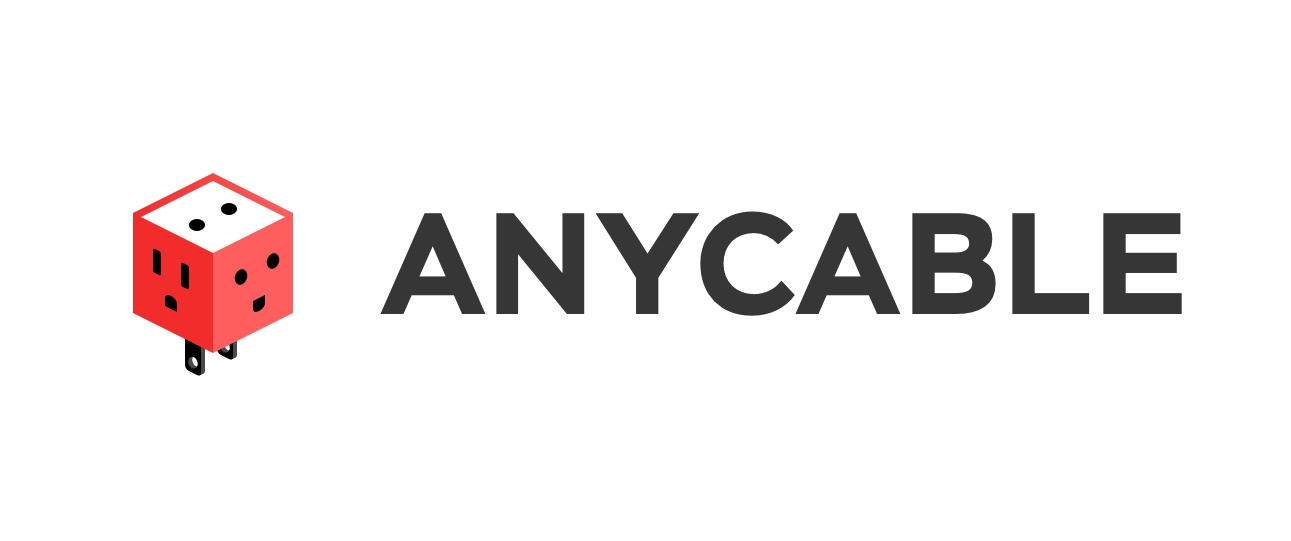
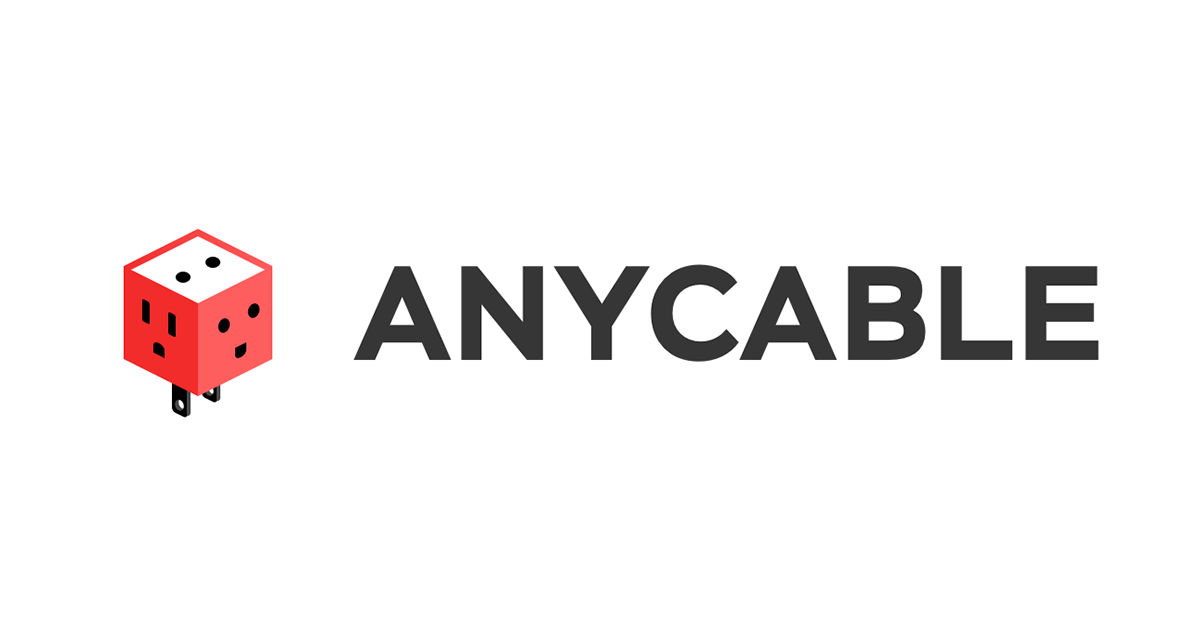
Upd share image; remove dev scripts

diff --git a/layout/base.html b/layout/base.html
@@ -27,11 +27,6 @@
   <body>
     <div class="main">
     </div>
-    <script src="/jspm_packages/system.js" type="text/javascript"></script>
-    <script src="/jspm.config.js" type="text/javascript"></script>
-    <script type="text/javascript">
-      System.import('app');
-      
-    </script>
+    <script src="/js/app.min.js" type="text/javascript"></script>
   </body>
 </html>

diff --git a/index.html b/index.html
@@ -78,11 +78,6 @@
         </div>
       </div>
     </div>
-    <script src="/jspm_packages/system.js" type="text/javascript"></script>
-    <script src="/jspm.config.js" type="text/javascript"></script>
-    <script type="text/javascript">
-      System.import('app');
-      
-    </script>
+    <script src="/js/app.min.js" type="text/javascript"></script>
   </body>
 </html>

diff --git a/layout/footer.html b/layout/footer.html
@@ -1,7 +1,2 @@
 
-<script src="/jspm_packages/system.js" type="text/javascript"></script>
-<script src="/jspm.config.js" type="text/javascript"></script>
-<script type="text/javascript">
-  System.import('app');
-  
-</script>
+<script src="/js/app.min.js" type="text/javascript"></script>
